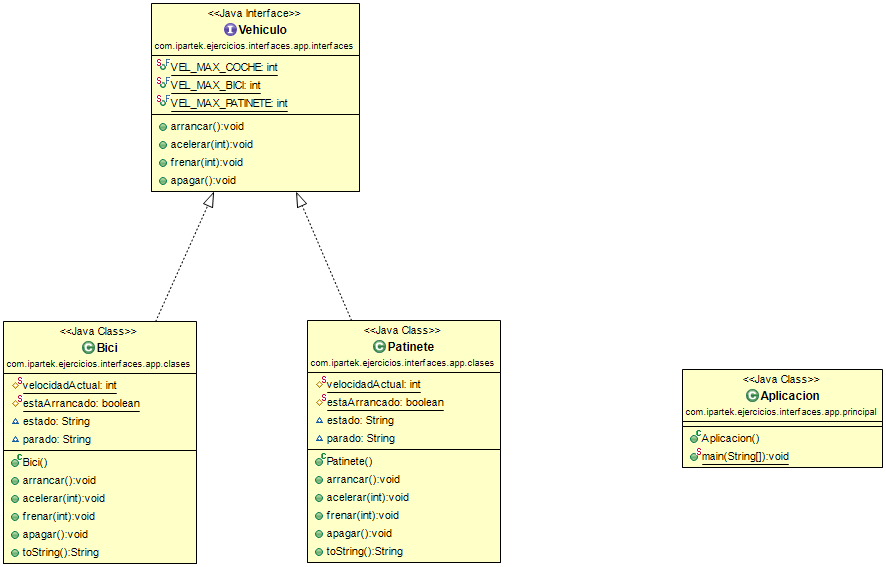
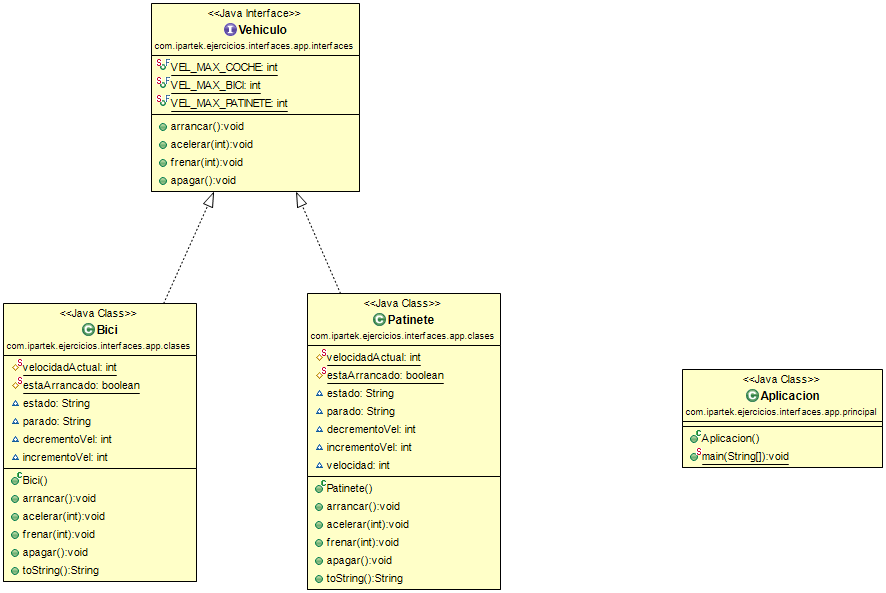
Patinete funcionando

diff --git a/src/com/ipartek/ejercicios/interfaces/app/principal/Aplicacion.java b/src/com/ipartek/ejercicios/interfaces/app/principal/Aplicacion.java
@@ -1,6 +1,5 @@
 package com.ipartek.ejercicios.interfaces.app.principal;
 
-import com.ipartek.ejercicios.interfaces.app.clases.Bici;
 import com.ipartek.ejercicios.interfaces.app.clases.Patinete;
 
 /**
@@ -18,18 +17,19 @@ public class Aplicacion {
 	public static void main(String[] args) {
 
 		Patinete p = new Patinete();
+
+		// p.apagar();
+
 		p.arrancar();
-		p.acelerar(1000);
-		// p.frenar(80);
+		p.acelerar(10000);
+		p.frenar(79);
 		p.apagar();
 		System.out.println(p.toString());
 
-		Bici b = new Bici();
-		b.arrancar();
-		b.acelerar(500);
-		b.frenar(10);
-		// b.apagar();
-		System.out.println(b.toString());
+		/*
+		 * Bici b = new Bici(); b.arrancar(); b.acelerar(500); b.frenar(10); //
+		 * b.apagar(); System.out.println(b.toString());
+		 */
 
 	}
 

diff --git a/src/com/ipartek/ejercicios/interfaces/app/clases/Bici.java b/src/com/ipartek/ejercicios/interfaces/app/clases/Bici.java
@@ -8,6 +8,16 @@ public class Bici implements Vehiculo {
 	protected static boolean estaArrancado = false;
 	String estado = "";
 	String parado = "";
+	int decrementoVel;
+	int incrementoVel;
+
+	public Bici() {
+		super();
+		this.arrancar();
+		this.apagar();
+		this.frenar(decrementoVel);
+		this.acelerar(incrementoVel);
+	}
 
 	public void arrancar() {
 		estaArrancado = true;
